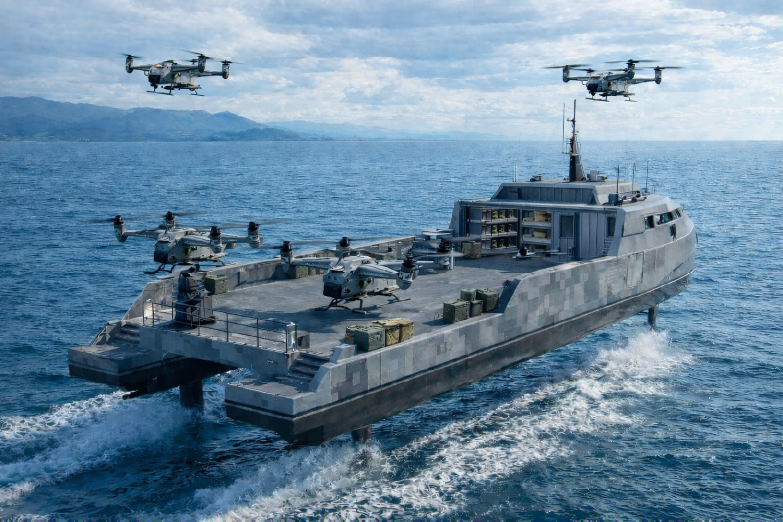
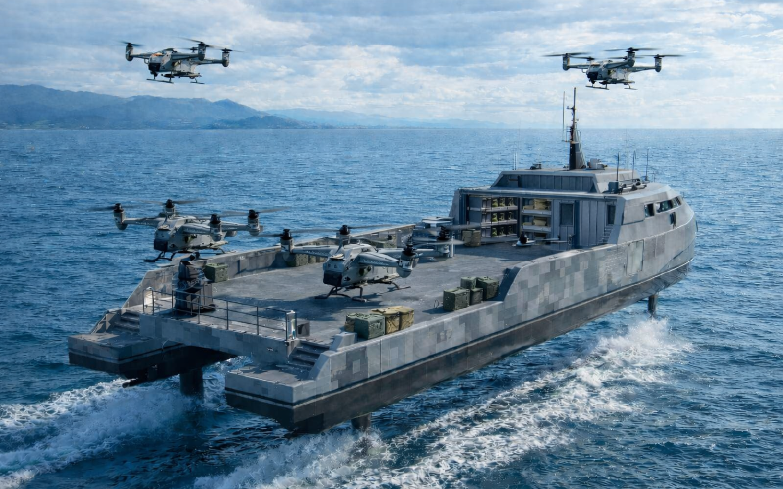
fix(defense): crop Morpheus gallery to 16:10 so badges sit inset (#425)
Letterboxing from mismatched source aspects put CONCEPT RENDER on the
frame edge. Logistics cropped from the left; drone carrier and escort
cropped top/bottom. Vessels stay fully in frame. Invest hero untouched.

diff --git a/defense/defense.css b/defense/defense.css
@@ -3862,8 +3862,8 @@ a.team-link:hover {
 }
 .def-morph-badge {
   position: absolute;
-  top: 10px;
-  left: 10px;
+  top: 16px;
+  left: 16px;
   z-index: 2;
   padding: 5px 9px;
   border-radius: 6px;

diff --git a/handoff/defense-microsite/GROK-BUILD-NOTES-v43.md b/handoff/defense-microsite/GROK-BUILD-NOTES-v43.md
@@ -4,7 +4,7 @@
 
 **What changed (contract `deck-studio/microsite/contracts/defense.json`, version → v4.3):**
 1. `def-family.morpheus_gallery` — NEW beat, placed directly after the ladder, before the PLATFORM beat.
-   - 3 images: `n180-morpheus-hero.png` (lead, golden-hour containerized logistics) · `defense-morpheus-drone-carrier-v1.png` · `defense-morpheus-escort-v1.png`.
+   - 3 images: `defense-morpheus-logistics-v1.png` (golden-hour containerized logistics, 16:10 crop from the left of n180-morpheus-hero.png) · `defense-morpheus-drone-carrier-v1.png` · `defense-morpheus-escort-v1.png` (drone/escort cropped top/bottom to 16:10).
    - **CONCEPT RENDER badge mandatory on every image** — small-caps chip, top-left, site chip style.
    - Class name **"Morpheus" only** — no hull number, no length, no range/spec figures.
    - V4 crop rule applies: never crop the vessel at any viewport. Verify 390/768/1280/1440/2560.
